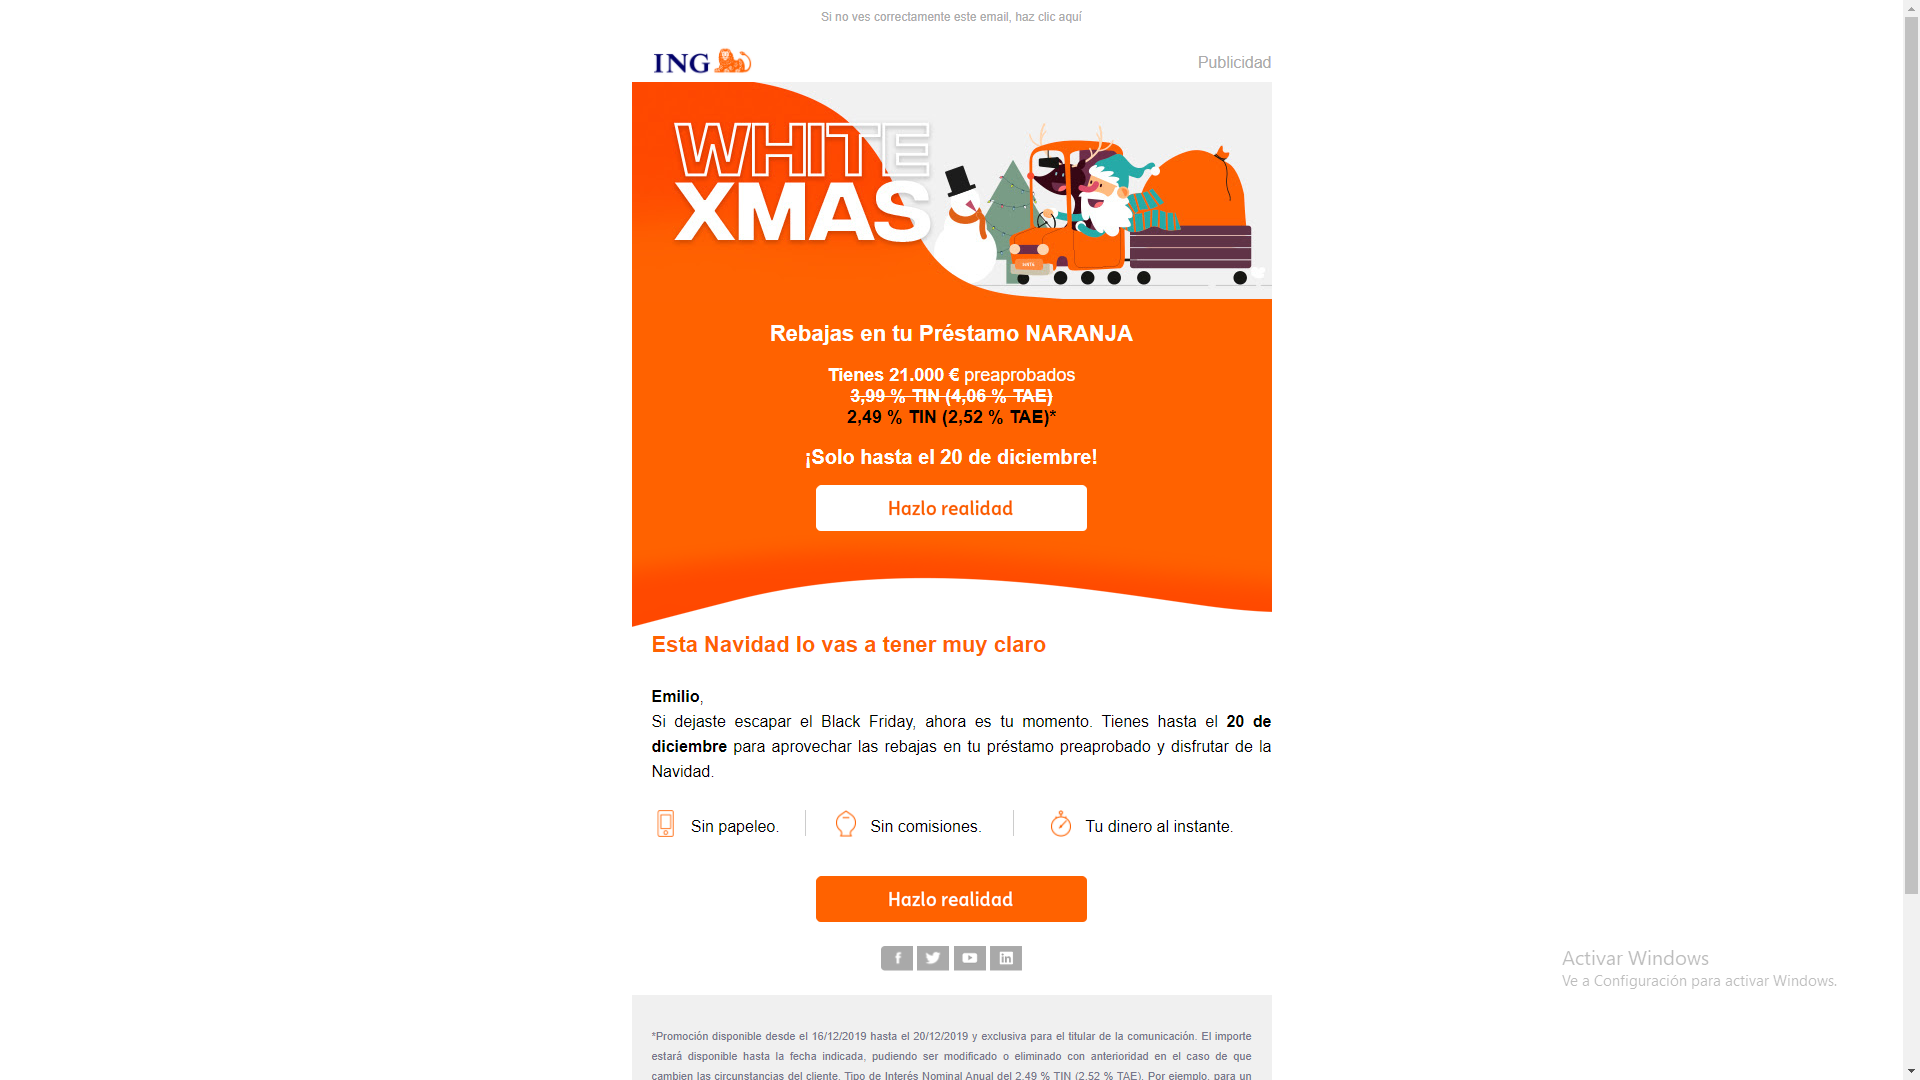
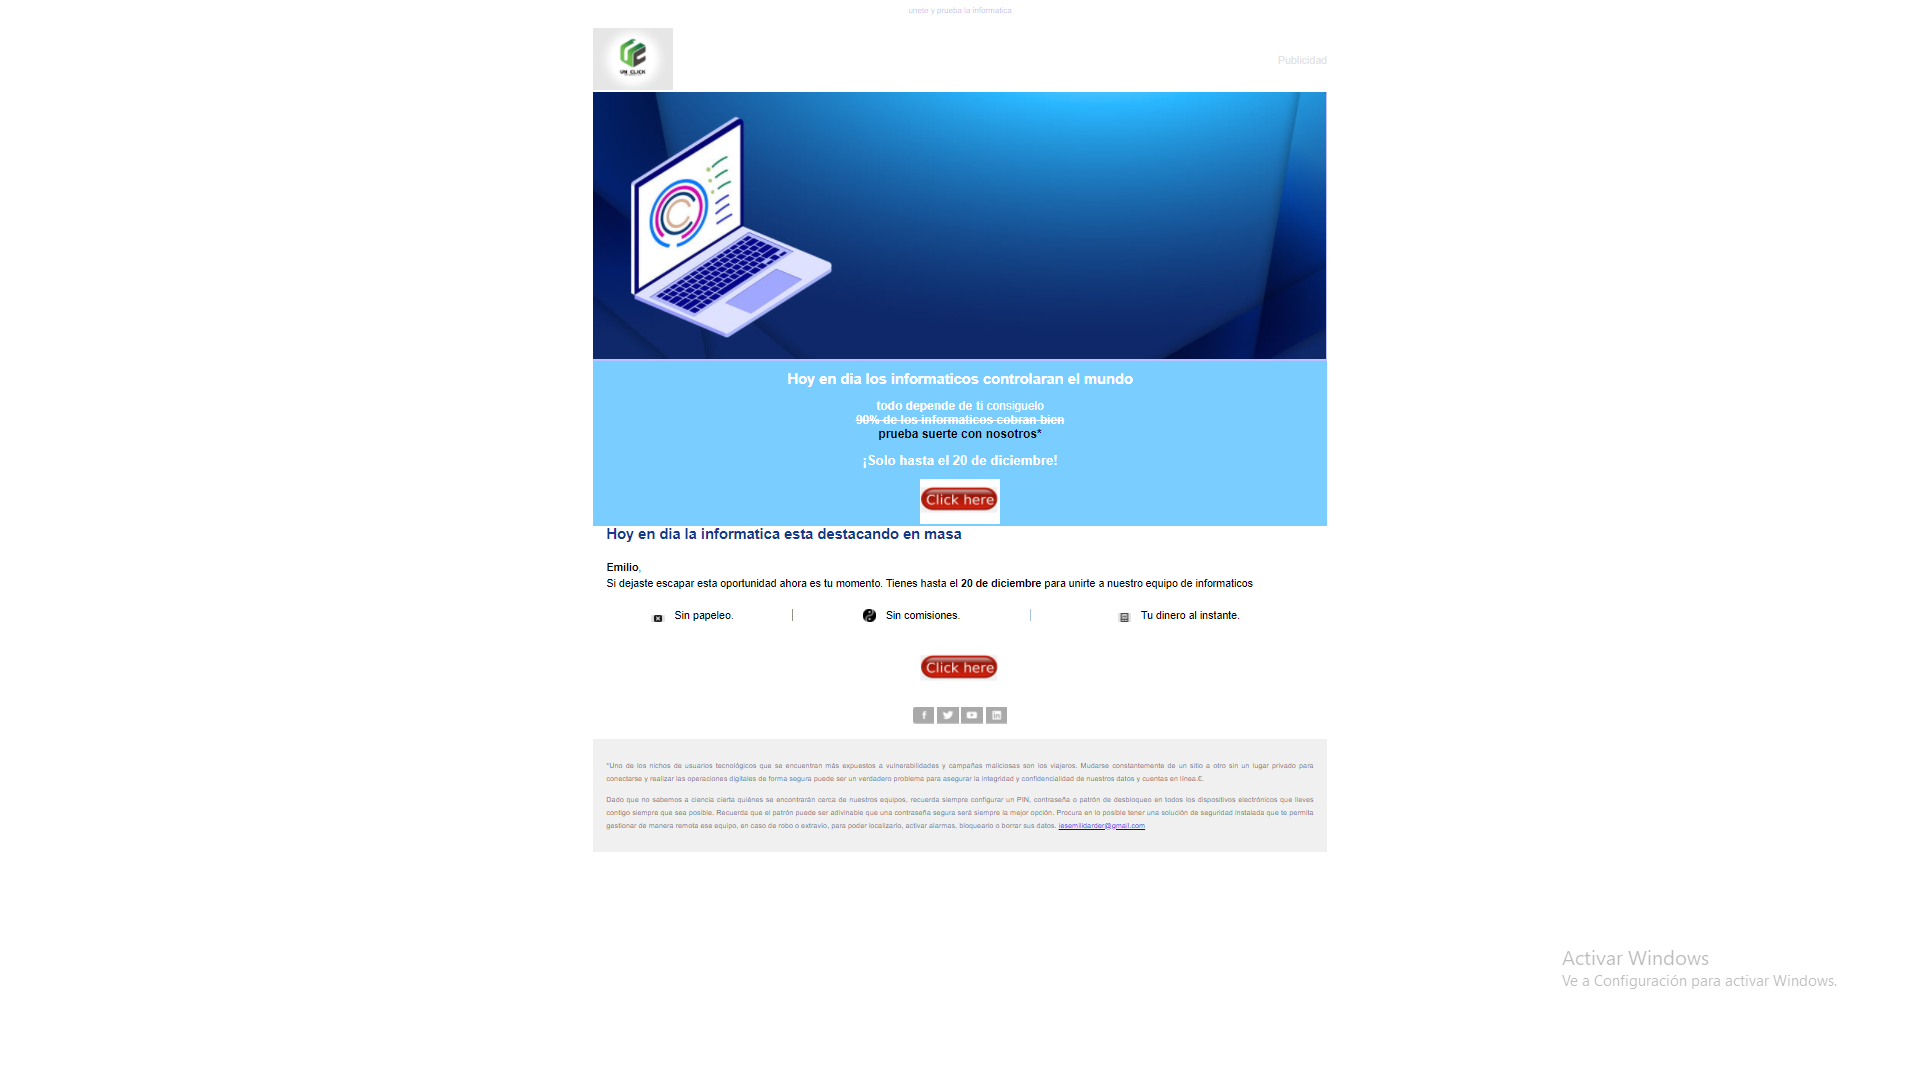
portafolio

diff --git a/plantilla1/index.html b/plantilla1/index.html
@@ -1,0 +1,111 @@
+<!DOCTYPE html>
+<html lang="en">
+  <head>
+    <meta charset="UTF-8" />
+    <meta name="viewport" content="width=device-width, initial-scale=1.0" />
+    <title>Document</title>
+    <link rel="stylesheet" href="css/style.css" />
+  </head>
+  <body>
+    <table>
+      <tr>
+        <td
+          colspan="3"
+          style="text-align: center;font-size: 12px;color: #2e22d356;padding-top: 10px;padding-bottom: 20px;">
+          unete y prueba la informatica
+        </td>
+      </tr>
+      <tr>
+        <td><img src="img/logo.gif" width="120" alt="" /></td>
+        <td colspan="2" style="text-align: right; color: #ababab56;">
+          Publicidad
+        </td>
+      </tr>
+      <tr>
+        <td colspan="3" style="background-color: #001aff44;">
+          <img src="img/portada.jpg" alt="" width="1100"/>
+        </td>
+      </tr>
+      <tr>
+        <td class="message" colspan="3">
+          <h1>Hoy en dia los informaticos controlaran el mundo</h1>
+          <p style="font-size: 18px;">
+            <span style="font-weight: bold;">todo depende de ti</span>
+            consiguelo<br />
+            <span style="font-weight: bolder; text-decoration: line-through;"
+              >90% de los informaticos cobran bien</span
+            ><br />
+            <span style="font-weight: bold; color: black;"
+              >prueba suerte con nosotros*</span
+            >
+          </p>
+          <h2>¡Solo hasta el 20 de diciembre!</h2>
+          <img src="img/btn-2.png" alt="" width="120"/>
+        </td>
+      </tr>
+      <tr>
+        <td colspan="3">
+          <h3>Hoy en dia la informatica esta destacando en masa</h3>
+          <p style="padding: 10px 0 10px 20px;line-height: 25px;text-align: justify;">
+            <b>Emilio</b>,<br />
+            Si dejaste escapar esta oportunidad ahora es tu momento. Tienes
+            hasta el <b>20 de diciembre</b> para unirte a nuestro equipo de informaticos
+          </p>
+        </td>
+      </tr>
+      <tr>
+        <td style="text-align: center; border-right: solid 1px #353b298e;">
+          <img
+            src="img/icon-mobile.png"
+            alt=""
+            width="20"
+            style="margin-bottom: -5px; margin-right:10px"
+          />
+          Sin papeleo.
+        </td>
+        <td style="text-align: center;border-right: solid 1px #0d56b65d;">
+          <img
+            src="img/icon-moneybox.png"
+            alt=""
+            width="20"
+            style="margin-bottom: -5px; margin-right:10px"
+          />
+          Sin comisiones.
+        </td>
+        <td style="text-align: center;">
+          <img
+            src="img/icon-clock.png"
+            alt=""
+            width="20"
+            style="margin-bottom: -5px;margin-right:10px"
+          />
+          Tu dinero al instante.
+        </td>
+      </tr>
+      <tr>
+        <td colspan="3" class="confirm">
+          <img src="img/btn-2.png" alt="" width="120" />
+          <div>
+            <img src="img/facebook.gif" alt="" />
+            <img src="img/twitter.gif" alt="" />
+            <img src="img/youtube.gif" alt="" />
+            <img src="img/in.gif" alt="" />
+          </div>
+        </td>
+      </tr>
+      <tr>
+        <td colspan="3" class="conditions">
+          <p>
+            *Uno de los nichos de usuarios tecnológicos que se encuentran más expuestos a vulnerabilidades y campañas maliciosas son los viajeros. Mudarse constantemente de un sitio a otro sin un lugar privado para conectarse y realizar las operaciones digitales de forma segura puede ser un verdadero problema para asegurar la integridad y confidencialidad de nuestros datos y cuentas en línea.&euro;.
+          </p>
+          <p>
+            Dado que no sabemos a ciencia cierta quiénes se encontrarán cerca de nuestros equipos, recuerda siempre configurar un PIN, contraseña o patrón de desbloqueo en todos los dispositivos electrónicos que lleves contigo siempre que sea posible. Recuerda que el patrón puede ser adivinable que una contraseña segura será siempre la mejor opción. Procura en lo posible tener una solución de seguridad instalada que te permita gestionar de manera remota ese equipo, en caso de robo o extravío, para poder localizarlo, activar alarmas, bloquearlo o borrar sus datos.
+            <a href="mailto:iesemilidarder@gmail.com"
+              >iesemilidarder@gmail.com</a
+            >
+          </p>
+        </td>
+      </tr>
+    </table>
+  </body>
+</html>

diff --git a/index.html b/index.html
@@ -35,14 +35,14 @@
     </div>
 <section id="proyectos" >
         <div class="segunda">
-            <h2>Proyectos</h2>
+            <h2>Proyectos y newsletter</h2>
             
 
             <div class="project-item">
-                <img src="img/proyecto2.PNG" name="projectHover">
+                <img src="img/proyecto2.png" name="projectHover">
                     <div class="info" name="info">
-                        <h3>Plantilla</h3>
-                        <p>Conoce un poco mas de mi nuestros proyectos</p>
+                        <h3>NEWSLETTER</h3>
+                        <p>Conoce noticias importantes</p>
                         <button>
                             <a href="plantilla1/index.html.html" >Mas...</a>
                         </button>

diff --git a/plantilla1/css/style.css b/plantilla1/css/style.css
@@ -16,7 +16,7 @@ table tr td {
 }
 .message {
   text-align: center;
-  background-color: #ff6200;
+  background-color: #00a2ff85;
   color: #ffffff;
   text-align: center;
 }
@@ -30,7 +30,7 @@ h2 {
   font-weight: bold;
 }
 h3{
-    color:#ff6200;
+    color:#14398a;
     padding: 0px 0 0px 20px;
     font-size: 22px;
     margin:0;
